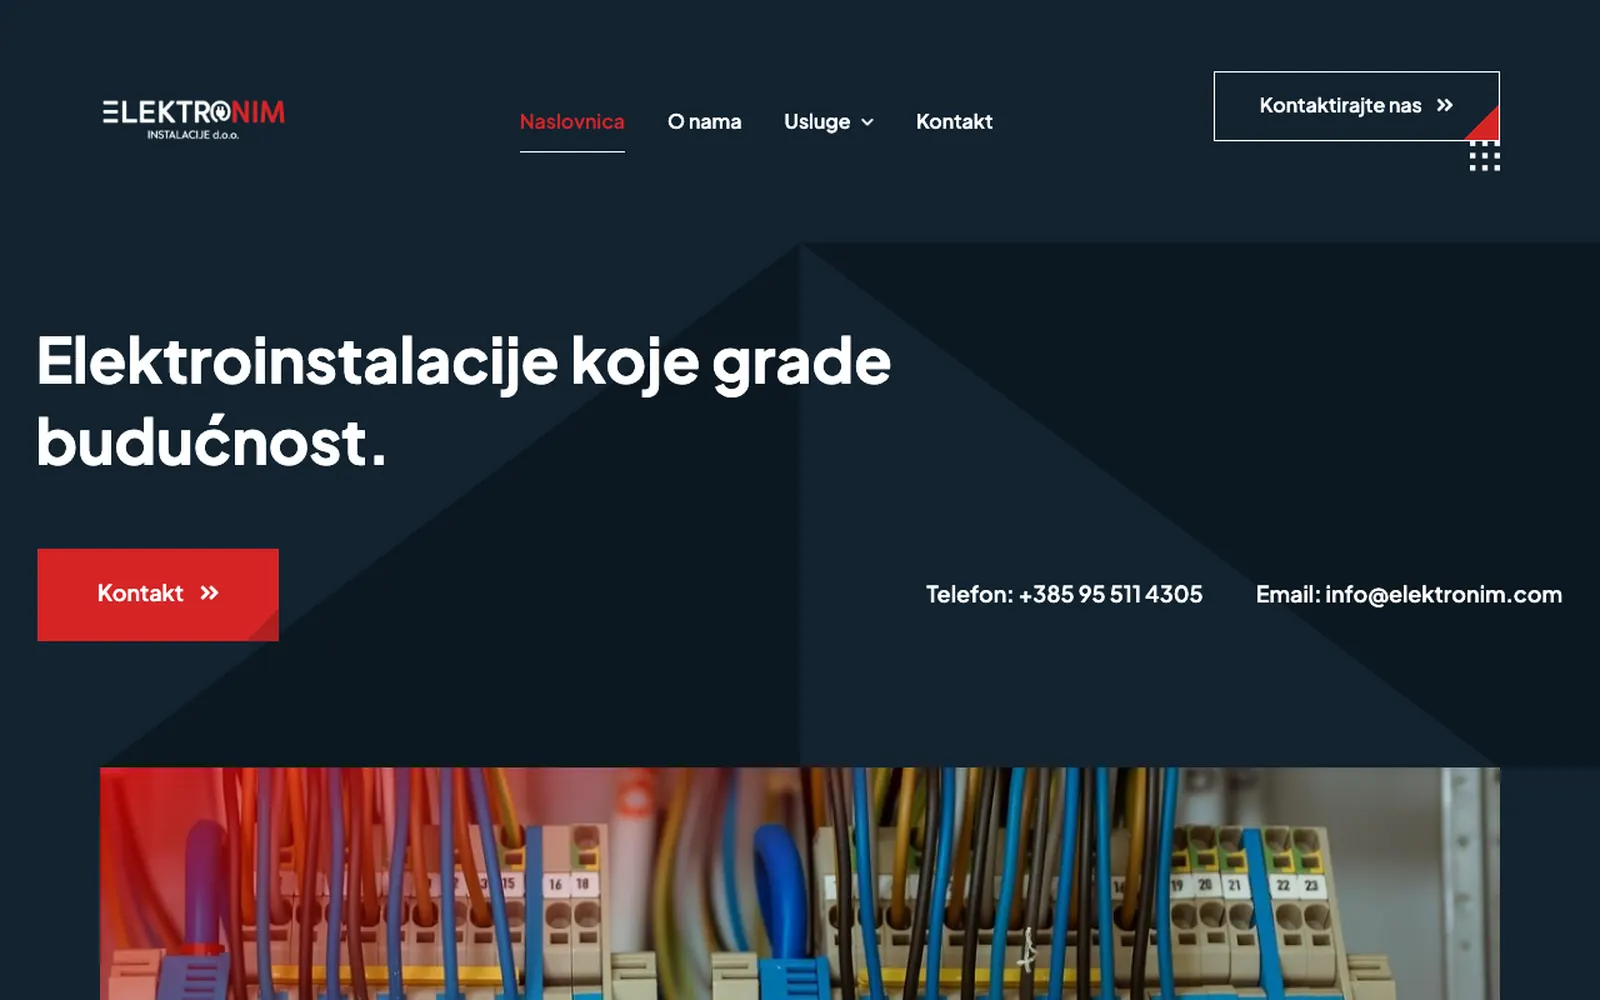
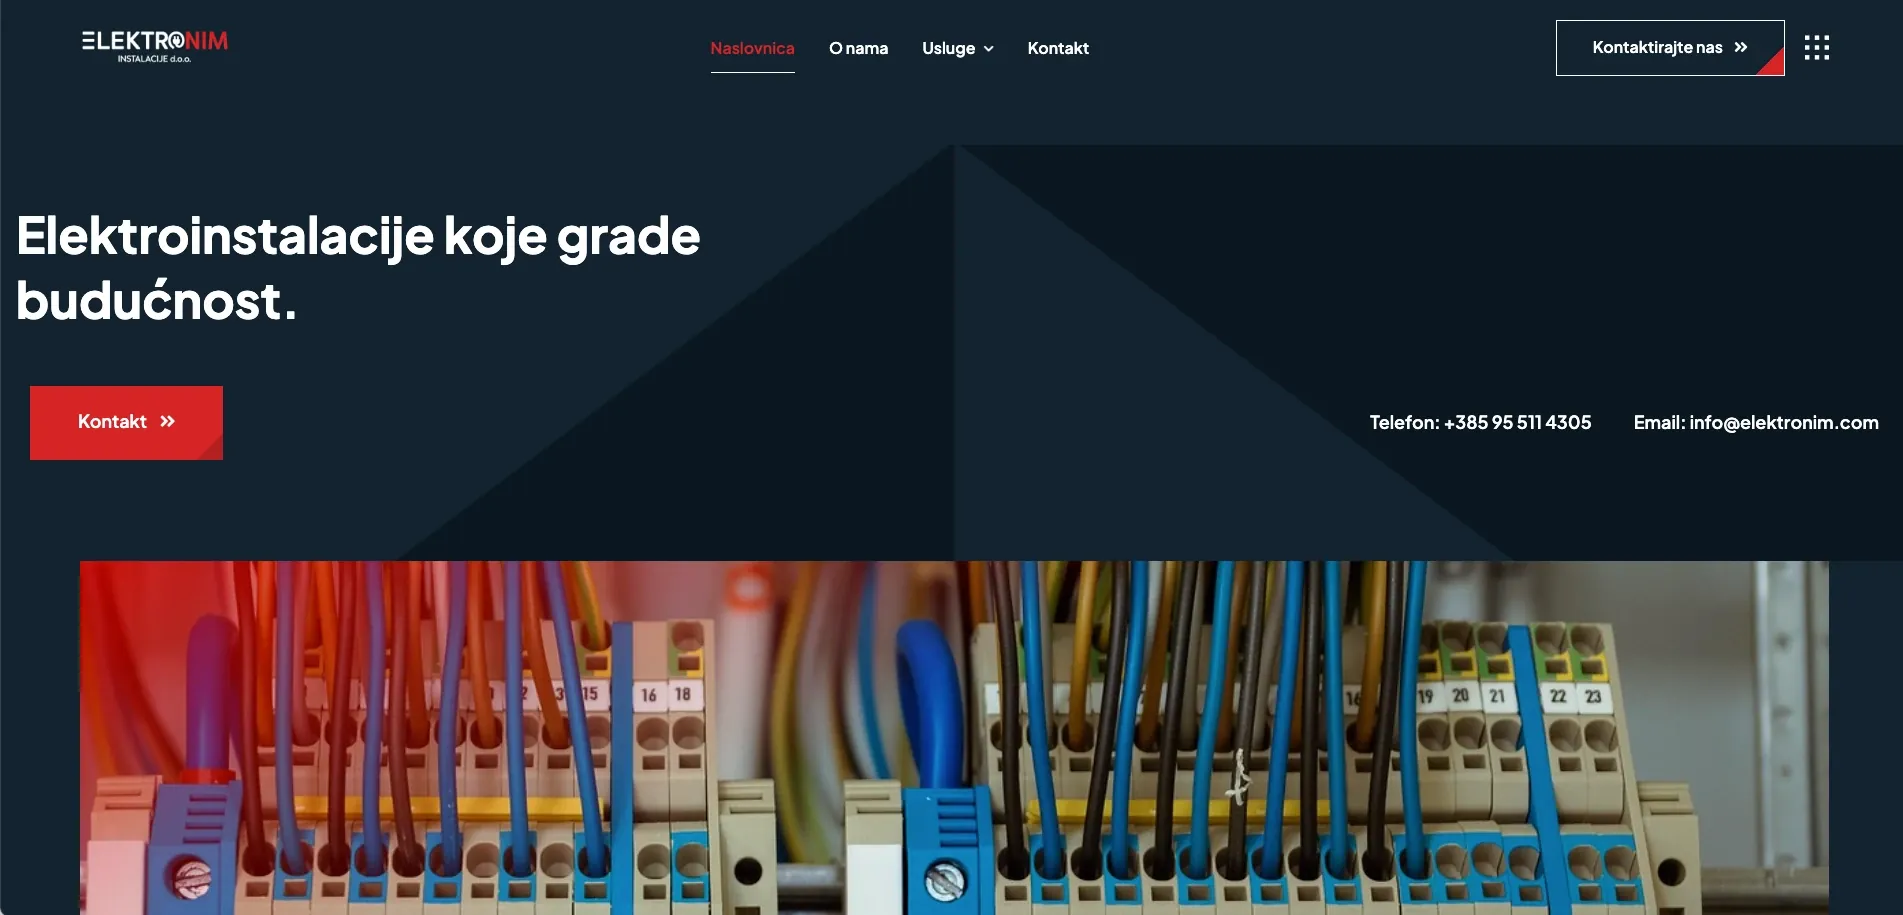
Publish Matija's Elektronim case study in full
His text replaces the sketch I wrote from the site: the problem a
recommended contractor still faces, the three challenges, what shipped
and what it changed — jokes included, because they are the voice.

Projects can now carry a `tagline` and a long-form `story`, and a
project that has one reads as a single column with Odluke, Isporučeno
and Rezultat gathered underneath, rather than squeezing an essay into
half the width. Everything without a story keeps the old two-column
layout. The closing line now has its own quiet section instead of
living only on the card.

One change to his copy, and it is worth saying plainly: it arrived in
the plural — "spojili smo", "izradili smo" — and the site speaks in the
first person singular throughout, as his own brief requires, because
Pinko is one person and must not imply a team that does not exist. The
note on the record says so, and putting the plural back is one edit in
one place.

The hero he sent replaces the crop I had made for the featured image.

diff --git a/pinko/src/content/projects.ts b/pinko/src/content/projects.ts
@@ -59,8 +59,15 @@ export type Project = {
   role: string;
   status: ProjectStatus;
   approvedForPublication: boolean;
+  /** One line under the project name. Optional; most records do without. */
+  tagline?: string;
   summary: string;
   context: string;
+  /**
+   * The long form, when a project has one written out. Rendered in place of
+   * the short context/challenge pair, which stay as the card's fallback.
+   */
+  story?: { heading: string; body: string[] }[];
   challenge: string;
   decisions: string[];
   deliverables: string[];
@@ -119,41 +126,85 @@ export const projects: Project[] = [
   {
     slug: "elektronim-instalacije",
     projectName: "Elektronim Instalacije",
+    tagline: "Spojio sam firmu na internet. Bez bušenja zidova.",
     relationshipType: "klijent",
     role:
-      "Izrada i objava weba na WordPressu, uz postavljanje strukture stranica, sadržaja i kontakta.",
+      "Izrada poslovnog weba i postavljanje temelja digitalne prisutnosti: struktura sadržaja, tekstovi, vizualno oblikovanje i put do upita.",
     status: "lansirano",
     approvedForPublication: true,
     summary:
-      "Predstavljački web za tvrtku koja izvodi elektroinstalacije — jasna ponuda usluga i kontakt koji se nađe iz prvog pokušaja.",
+      "Elektronim zna kako dovesti struju tamo gdje treba. Trebalo je omogućiti da do njih jednako jednostavno dođe i čovjek koji firmu prvi put traži na internetu.",
     context:
-      "Elektronim Instalacije d.o.o. izvodi elektroinstalacijske radove. Takvoj tvrtki web ne služi da objašnjava struku, nego da potencijalni naručitelj u par sekundi vidi što rade, u kojim industrijama i kako ih dobiti na telefon.",
+      "Elektroinstalacije za stambene, poslovne i industrijske objekte. Zadatak je bio postaviti digitalnu prisutnost tvrtke koja ima konkretne usluge i znanje, ali ih tek treba jasno predstaviti online: objasniti što rade, kome mogu pomoći i zašto ih vrijedi kontaktirati. Jer možete biti odlični u svom poslu, ali Google još uvijek nema opciju „Ma znaš onog dobrog električara, netko mi ga je spominjao kod šogora”.",
     challenge:
-      "Posao se ne prodaje tehničkim nabrajanjem. Trebalo je ponudu posložiti u nekoliko razumljivih cjelina, pokazati stvarne radove i staviti kontakt na mjesto gdje ga nitko ne mora tražiti.",
+      "Preporuka vas dovede do razgovora — ali što se dogodi prije njega? Preporučeni izvođač najčešće prolazi još jedan mali razgovor za posao: onaj koji potencijalni klijent obavi sam sa sobom, gledajući rezultate pretraživanja.",
+    story: [
+      {
+        heading: "Problem: preporuka vas dovede do razgovora. Što se događa prije njega?",
+        body: [
+          "Kod izvođačkih tvrtki velik dio posla dolazi preko poznanstava, preporuka i prethodnih suradnji. To je odličan temelj. Ali preporučeni izvođač nakon toga često završi na još jednom malom razgovoru za posao — onom koji potencijalni klijent obavi sam sa sobom, gledajući rezultate pretraživanja.",
+          "Čime se točno bave? Rade li ovakve projekte? Mogu li im poslati upit?",
+          "Firma bez digitalne prisutnosti na ta pitanja teško odgovara prije prvog kontakta. Osoba koja je dobila preporuku nema gdje provjeriti ponudu, a netko tko za firmu još nije čuo ima jednu priliku manje da je upozna.",
+          "Elektronimu je trebao jasan, profesionalan prostor koji može preuzeti taj prvi dio predstavljanja.",
+        ],
+      },
+      {
+        heading: "Prvi izazov: krenuti od poslovanja, a ne od boje gumba",
+        body: [
+          "Kad tvrtka kreće graditi digitalnu prisutnost, lako je odmah preskočiti na fotografije, animacije i pitanje treba li naslov biti „malo veći”. Prije toga treba riješiti važnije stvari: koje usluge tvrtka nudi, kome ih želi predstaviti, što potencijalni klijent treba razumjeti prije slanja upita i koji je najjednostavniji put do kontakta.",
+          "Za Elektronim sam prezentaciju organizirao oko njihovih područja rada, s naglaskom na stanogradnju i industrijske elektroinstalacije. Time široka ponuda dobiva strukturu: posjetitelj prepozna vlastitu potrebu i nastavi prema relevantnim informacijama.",
+          "A gumb? Došao je i on na red. Preživio je.",
+        ],
+      },
+      {
+        heading: "Drugi izazov: tehničku stručnost prevesti na jezik kupca",
+        body: [
+          "Izvođač i naručitelj često gledaju isti projekt iz različitih perspektiva. Izvođač razmišlja o sustavima, izvedbi i tehničkim zahtjevima. Naručitelj želi znati može li mu netko kvalitetno riješiti instalacije u objektu koji gradi, uređuje ili modernizira.",
+          "Zato sam usluge smjestio u razumljiv poslovni kontekst: vrste objekata, područja primjene i konkretne radove. Posjetitelj tako dobiva polazište za razgovor, bez očekivanja da prije slanja upita položi stručni ispit.",
+          "Dobar web izvođača treba pokazati stručnost i olakšati kupcu da objasni što mu treba.",
+        ],
+      },
+      {
+        heading: "Treći izazov: izgraditi povjerenje prije prvog rukovanja",
+        body: [
+          "Tvrtka koja tek dolazi online treba predstaviti identitet i ponudu dovoljno jasno da posjetitelj dobije osjećaj s kim razgovara. Za to nisu potrebne rečenice poput „vodeći inovativni lider vrhunskih rješenja budućnosti”. Potrebno je odgovoriti na praktična pitanja: tko ste, što radite, za kakve projekte vas možemo angažirati i kako vas kontaktirati.",
+          "Prezentaciju sam zato povezao kroz informacije o tvrtki, pregled usluga, vizualne prikaze i dostupne kontaktne podatke. Cilj je da potencijalni klijent dođe do prvog razgovora s više razumijevanja ponude.",
+          "Povjerenje se gradi i time što čovjek ne mora pet minuta tražiti broj telefona kao da je riječ o nagradnoj igri.",
+        ],
+      },
+      {
+        heading: "Kako staviti firmu bez digitalne prisutnosti na tržište?",
+        body: [
+          "Prvi korak je dati joj adresu koju može poslati uz preporuku, uključiti u ponudu i pokazati potencijalnom partneru. Ali sama adresa nije dovoljna. Na njoj mora biti sadržaj koji predstavlja stvarno poslovanje.",
+          "U Elektronimovu slučaju web je postao temelj za takvo predstavljanje: mjesto na kojem se može pregledati ponuda i pronaći kontakt. Na taj se temelj zatim mogu nadograđivati lokalna vidljivost, nove reference, sadržaj i buduće kampanje.",
+          "Važno je krenuti s jasnom ponudom. Oglašavanje može dovesti čovjeka na stranicu, ali stranica mu mora pomoći da shvati zašto je došao. Inače samo plaćate da se više ljudi zbuni.",
+        ],
+      },
+    ],
     decisions: [
-      "WordPress, jer sadržaj mora ostati u rukama tvrtke i nakon isporuke",
-      "Struktura prema tome kako naručitelj razmišlja: usluge, industrije, projekti, kontakt",
-      "Telefon i email vidljivi već u prvom zaslonu, ne samo na stranici kontakta",
-      "Fotografije stvarnih radova umjesto generičnih stock prizora",
+      "Krenuti od poslovanja, a ne od boje gumba: prvo usluge, publika i put do upita",
+      "Prezentaciju organizirati oko područja rada, s naglaskom na stanogradnju i industrijske elektroinstalacije",
+      "Tehničku djelatnost opisati jezikom naručitelja: vrste objekata, područja primjene i konkretni radovi",
+      "Kontakt staviti tamo gdje ga nitko ne mora tražiti",
     ],
     deliverables: [
-      "Naslovnica s ponudom, industrijama i pozivom na kontakt",
-      "Stranice usluga i predstavljanja tvrtke",
-      "Pregled izvedenih projekata",
-      "Kontakt s telefonom, emailom i obrascem",
+      "Struktura sadržaja koja odvaja predstavljanje tvrtke, područja rada, usluge i kontakt",
+      "Prezentacija ponude za stanogradnju i industrijske objekte",
+      "Tekstovi i hijerarhija informacija koji tehničku djelatnost približavaju naručitelju",
+      "Vizualno oblikovanje stranice koje podupire profesionalno predstavljanje",
+      "Istaknute kontaktne informacije i pozivi na upit, da zainteresirani posjetitelj zna što dalje",
     ],
     outcomes: [
-      "Web je javno dostupan i tvrtka ga može sama dopunjavati",
-      "Ponuda je složena u cjeline koje naručitelj prepoznaje",
-      "Kontakt je dostupan iz svakog zaslona",
+      "Elektronim ima poslovni web koji predstavlja tvrtku, organizira usluge i otvara put prema kontaktu",
+      "Potencijalni klijenti imaju mjesto na kojem upoznaju ponudu prije razgovora",
+      "Tvrtka ima stranicu koja može pratiti daljnji razvoj, nove projekte i buduće marketinške aktivnosti",
     ],
-    outcomesLabel: "Moj doprinos",
-    nextStep: "Vodite obrt ili tvrtku kojoj web treba donositi upite, a ne komplimente?",
+    nextStep: "Radite odličan posao, a nema vas još na internetu?",
     featuredImage: {
       src: "/projekti/elektronim-featured.webp",
-      alt: "Naslovnica Elektronim Instalacija: naslov „Elektroinstalacije koje grade budućnost” i kontakt podaci.",
-      width: 1600,
-      height: 1000,
+      alt: "Naslovnica Elektronim Instalacija: naslov „Elektroinstalacije koje grade budućnost”, gumb za kontakt i fotografija ožičenog razvodnog ormara.",
+      width: 1903,
+      height: 915,
     },
     evidenceLinks: [
       {
@@ -176,9 +227,9 @@ export const projects: Project[] = [
       },
     ],
     publishedAt: "2026-10-16",
-    contributionLabel: "Izrada weba na WordPressu",
+    contributionLabel: "Poslovni web i digitalna prisutnost",
     internalNote:
-      "Dodano 16. 10. 2026. na Matijin zahtjev. OPREZ: opseg je opisan iz onoga što web pokazuje i iz toga što je autor sadržaja korisnik 'mpinko'. Matija nije potvrdio točan opseg posla (dizajn, sadržaj, fotografije, održavanje) — provjeriti prije nego se tekst dodatno jača.",
+      "Tekst je Matijin, dostavljen 16. 10. 2026. Jedina izmjena: prebačen iz množine („spojili smo”) u jedninu, jer Pinko je obrt jedne osobe i ostatak weba govori u prvom licu jednine — tako traži i brief. Vraćanje u množinu je izmjena na jednom mjestu.",
   },
   {
     slug: "teladoc-business-vision",

diff --git a/pinko/src/app/projekti/[slug]/page.tsx b/pinko/src/app/projekti/[slug]/page.tsx
@@ -59,6 +59,11 @@ export default async function ProjectPage({ params }: Props) {
         title={project.projectName}
         lead={
           <>
+            {project.tagline ? (
+              <p className="mb-3 text-(length:--text-title) font-extrabold">
+                {project.tagline}
+              </p>
+            ) : null}
             <p>{project.summary}</p>
             <dl className="mt-7 grid gap-5 sm:grid-cols-2">
               <div>
@@ -109,22 +114,37 @@ export default async function ProjectPage({ params }: Props) {
         </Section>
       ) : null}
 
-      <Section>
-        <div className="grid gap-12 lg:grid-cols-[1fr_1fr] lg:gap-16">
-          <div className="space-y-10">
-            <Block title="Kontekst" body={project.context} />
-            <Block title="Izazov" body={project.challenge} />
-            <ListBlock title="Odluke" items={project.decisions} />
-          </div>
-          <div className="space-y-10">
-            <ListBlock title="Isporučeno" items={project.deliverables} />
-            <ListBlock
-              title={project.outcomesLabel ?? "Rezultat"}
-              items={project.outcomes}
-            />
-            {project.roadmap && project.roadmap.length > 0 ? (
-              <ListBlock title="U planu" items={project.roadmap} />
-            ) : null}
+      {/* A project with the long form written out reads as one column, with
+          the lists gathered underneath. Without it, the old two-column pair
+          of context and challenge still applies. */}
+      {project.story ? (
+        <>
+          <Section>
+            <div className="measure-wide space-y-12">
+              {project.story.map((part) => (
+                <section key={part.heading} data-reveal>
+                  <h2 className="text-(length:--text-title) font-extrabold">
+                    {part.heading}
+                  </h2>
+                  <div className="mt-4 space-y-4 text-ink-soft">
+                    {part.body.map((paragraph) => (
+                      <p key={paragraph}>{paragraph}</p>
+                    ))}
+                  </div>
+                </section>
+              ))}
+            </div>
+          </Section>
+
+          <Section tone="surface" tight>
+            <div className="grid gap-10 md:grid-cols-2 lg:grid-cols-3 lg:gap-12">
+              <ListBlock title="Odluke" items={project.decisions} />
+              <ListBlock title="Isporučeno" items={project.deliverables} />
+              <div className="space-y-10">
+                <ListBlock
+                  title={project.outcomesLabel ?? "Rezultat"}
+                  items={project.outcomes}
+                />
             {project.evidenceLinks.length > 0 ? (
               <div>
                 <h2 className="text-(length:--text-title) font-extrabold">
@@ -146,14 +166,60 @@ export default async function ProjectPage({ params }: Props) {
                 </ul>
               </div>
             ) : null}
+              </div>
+            </div>
+          </Section>
+        </>
+      ) : (
+        <Section>
+          <div className="grid gap-12 lg:grid-cols-[1fr_1fr] lg:gap-16">
+            <div className="space-y-10">
+              <Block title="Kontekst" body={project.context} />
+              <Block title="Izazov" body={project.challenge} />
+              <ListBlock title="Odluke" items={project.decisions} />
+            </div>
+            <div className="space-y-10">
+              <ListBlock title="Isporučeno" items={project.deliverables} />
+              <ListBlock
+                title={project.outcomesLabel ?? "Rezultat"}
+                items={project.outcomes}
+              />
+              {project.roadmap && project.roadmap.length > 0 ? (
+                <ListBlock title="U planu" items={project.roadmap} />
+              ) : null}
+            {project.evidenceLinks.length > 0 ? (
+              <div>
+                <h2 className="text-(length:--text-title) font-extrabold">
+                  Poveznice
+                </h2>
+                <ul className="mt-4 space-y-2">
+                  {project.evidenceLinks.map((link) => (
+                    <li key={link.href}>
+                      <a
+                        href={link.href}
+                        className="font-medium text-accent underline underline-offset-4"
+                        rel="noopener noreferrer"
+                        target="_blank"
+                      >
+                        {link.label}
+                      </a>
+                    </li>
+                  ))}
+                </ul>
+              </div>
+            ) : null}
+            </div>
           </div>
-        </div>
-      </Section>
+        </Section>
+      )}
 
-      <Section tone="surface" tight>
-        <h2 className="max-w-[22ch] text-(length:--text-display) font-extrabold">
+      <Section tight>
+        <p
+          data-reveal
+          className="measure-wide text-(length:--text-display) font-extrabold"
+        >
           {project.nextStep}
-        </h2>
+        </p>
       </Section>
 
       <ClosingContact />
